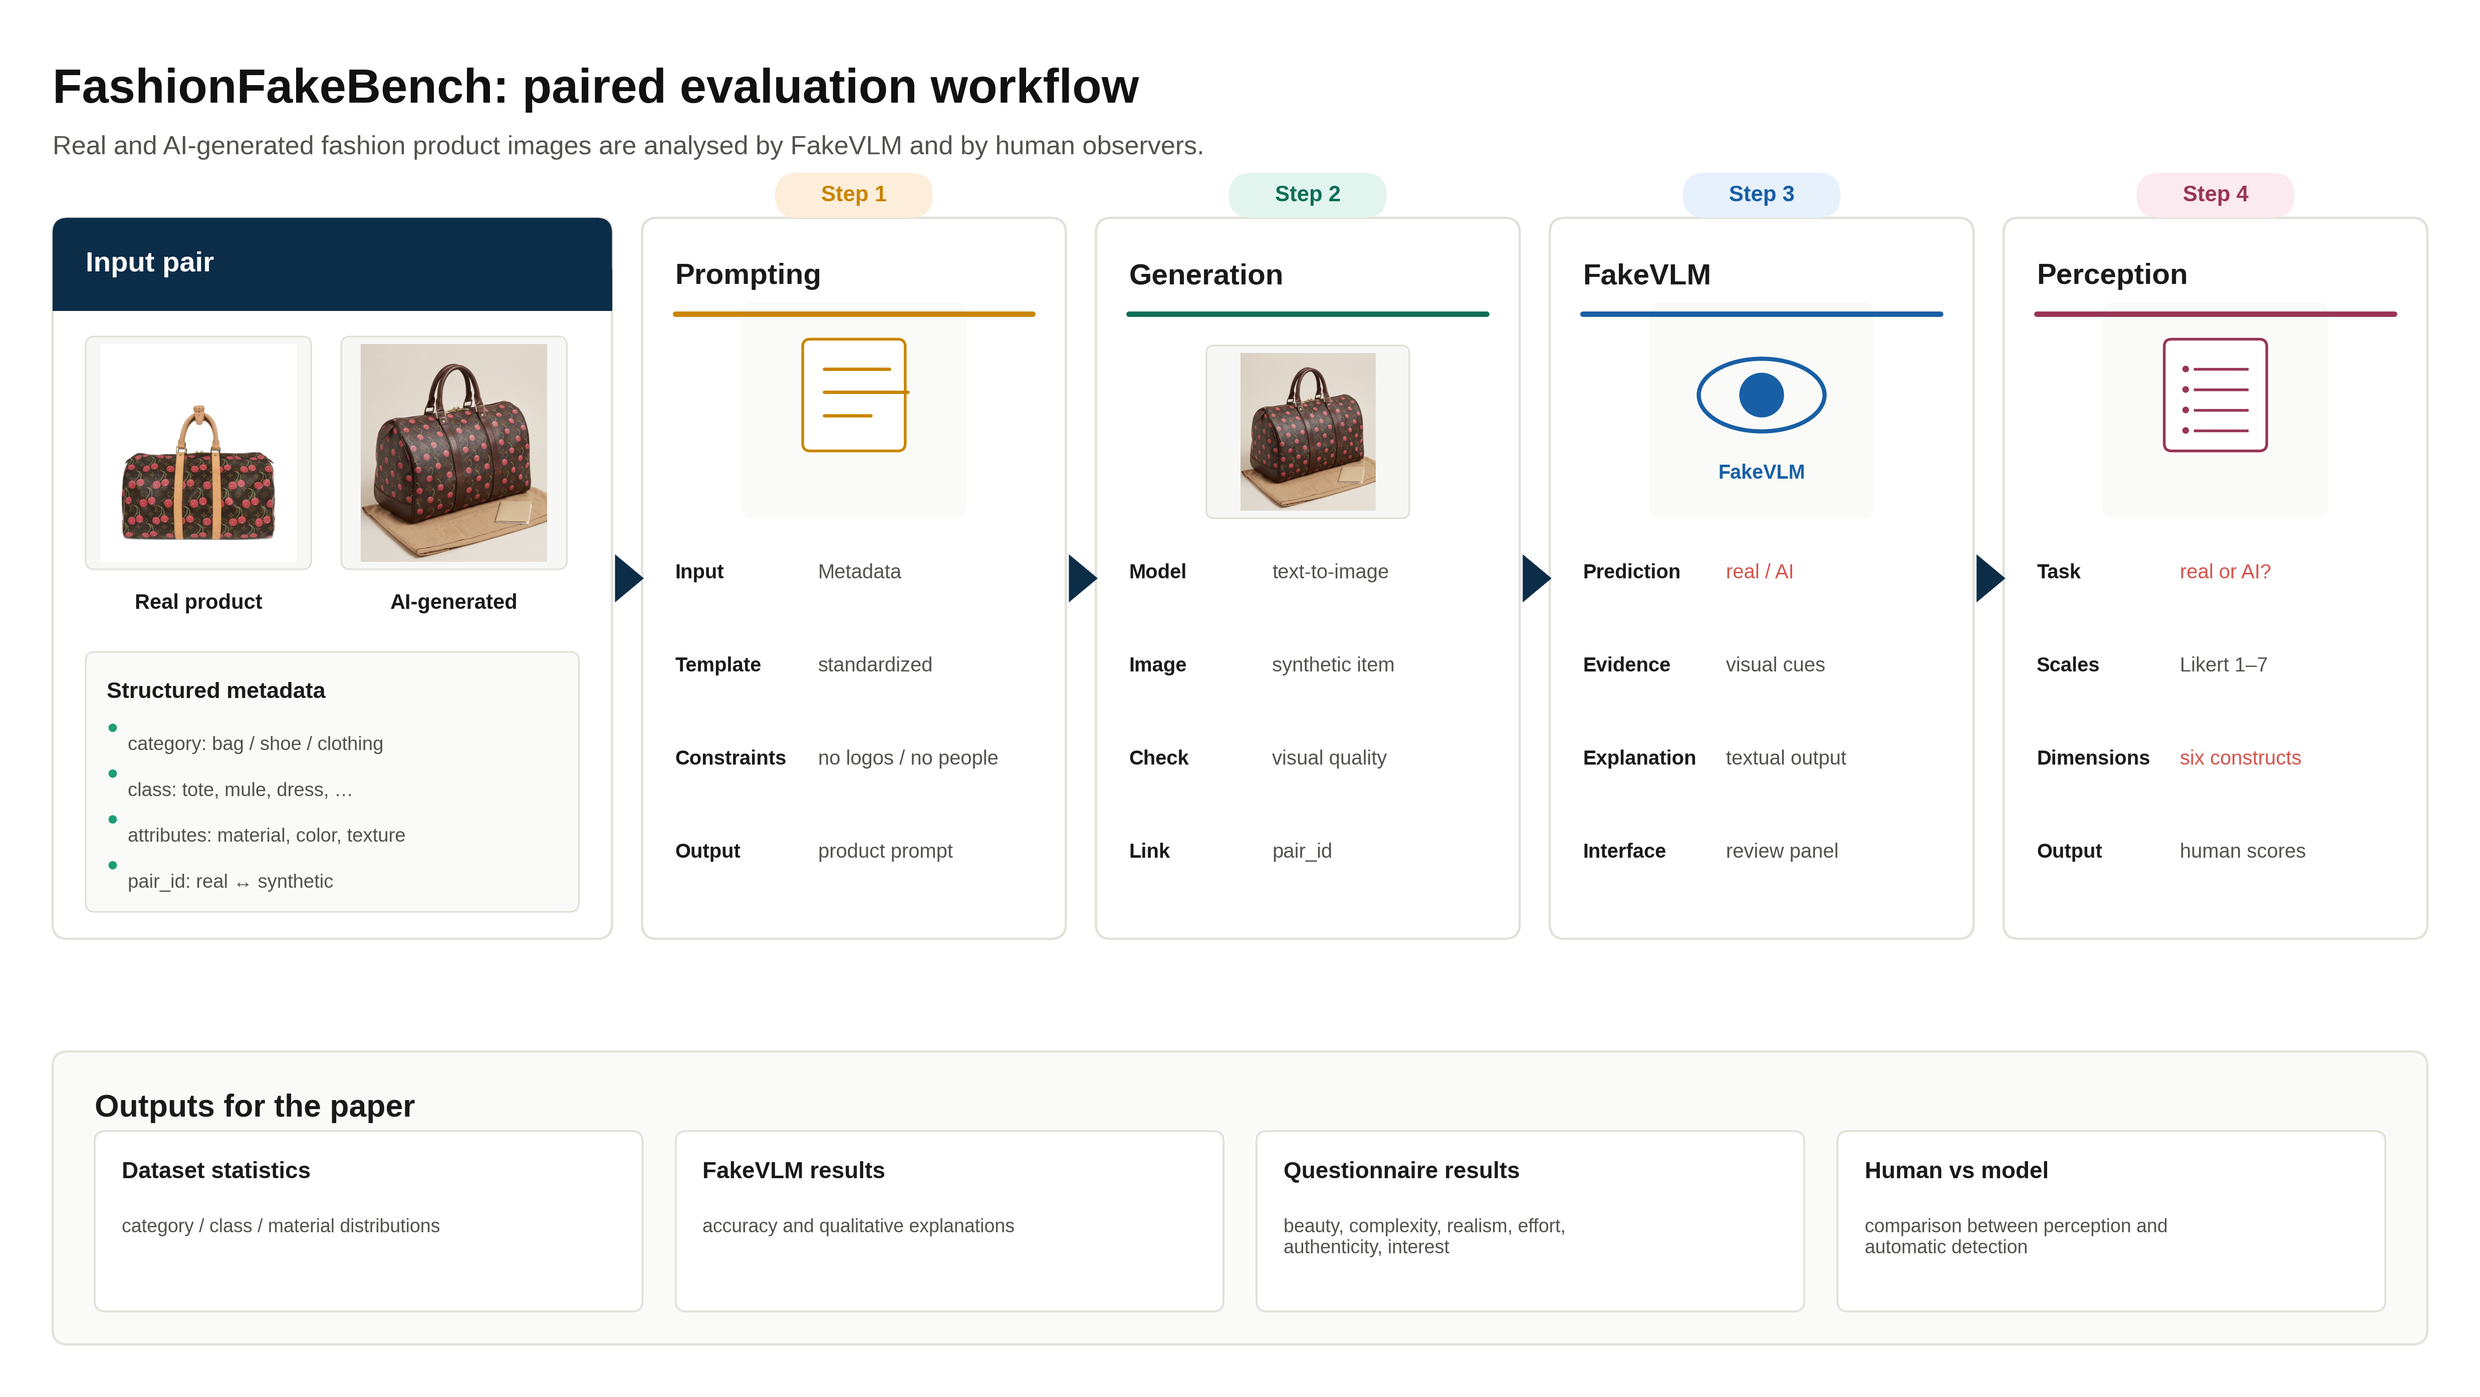
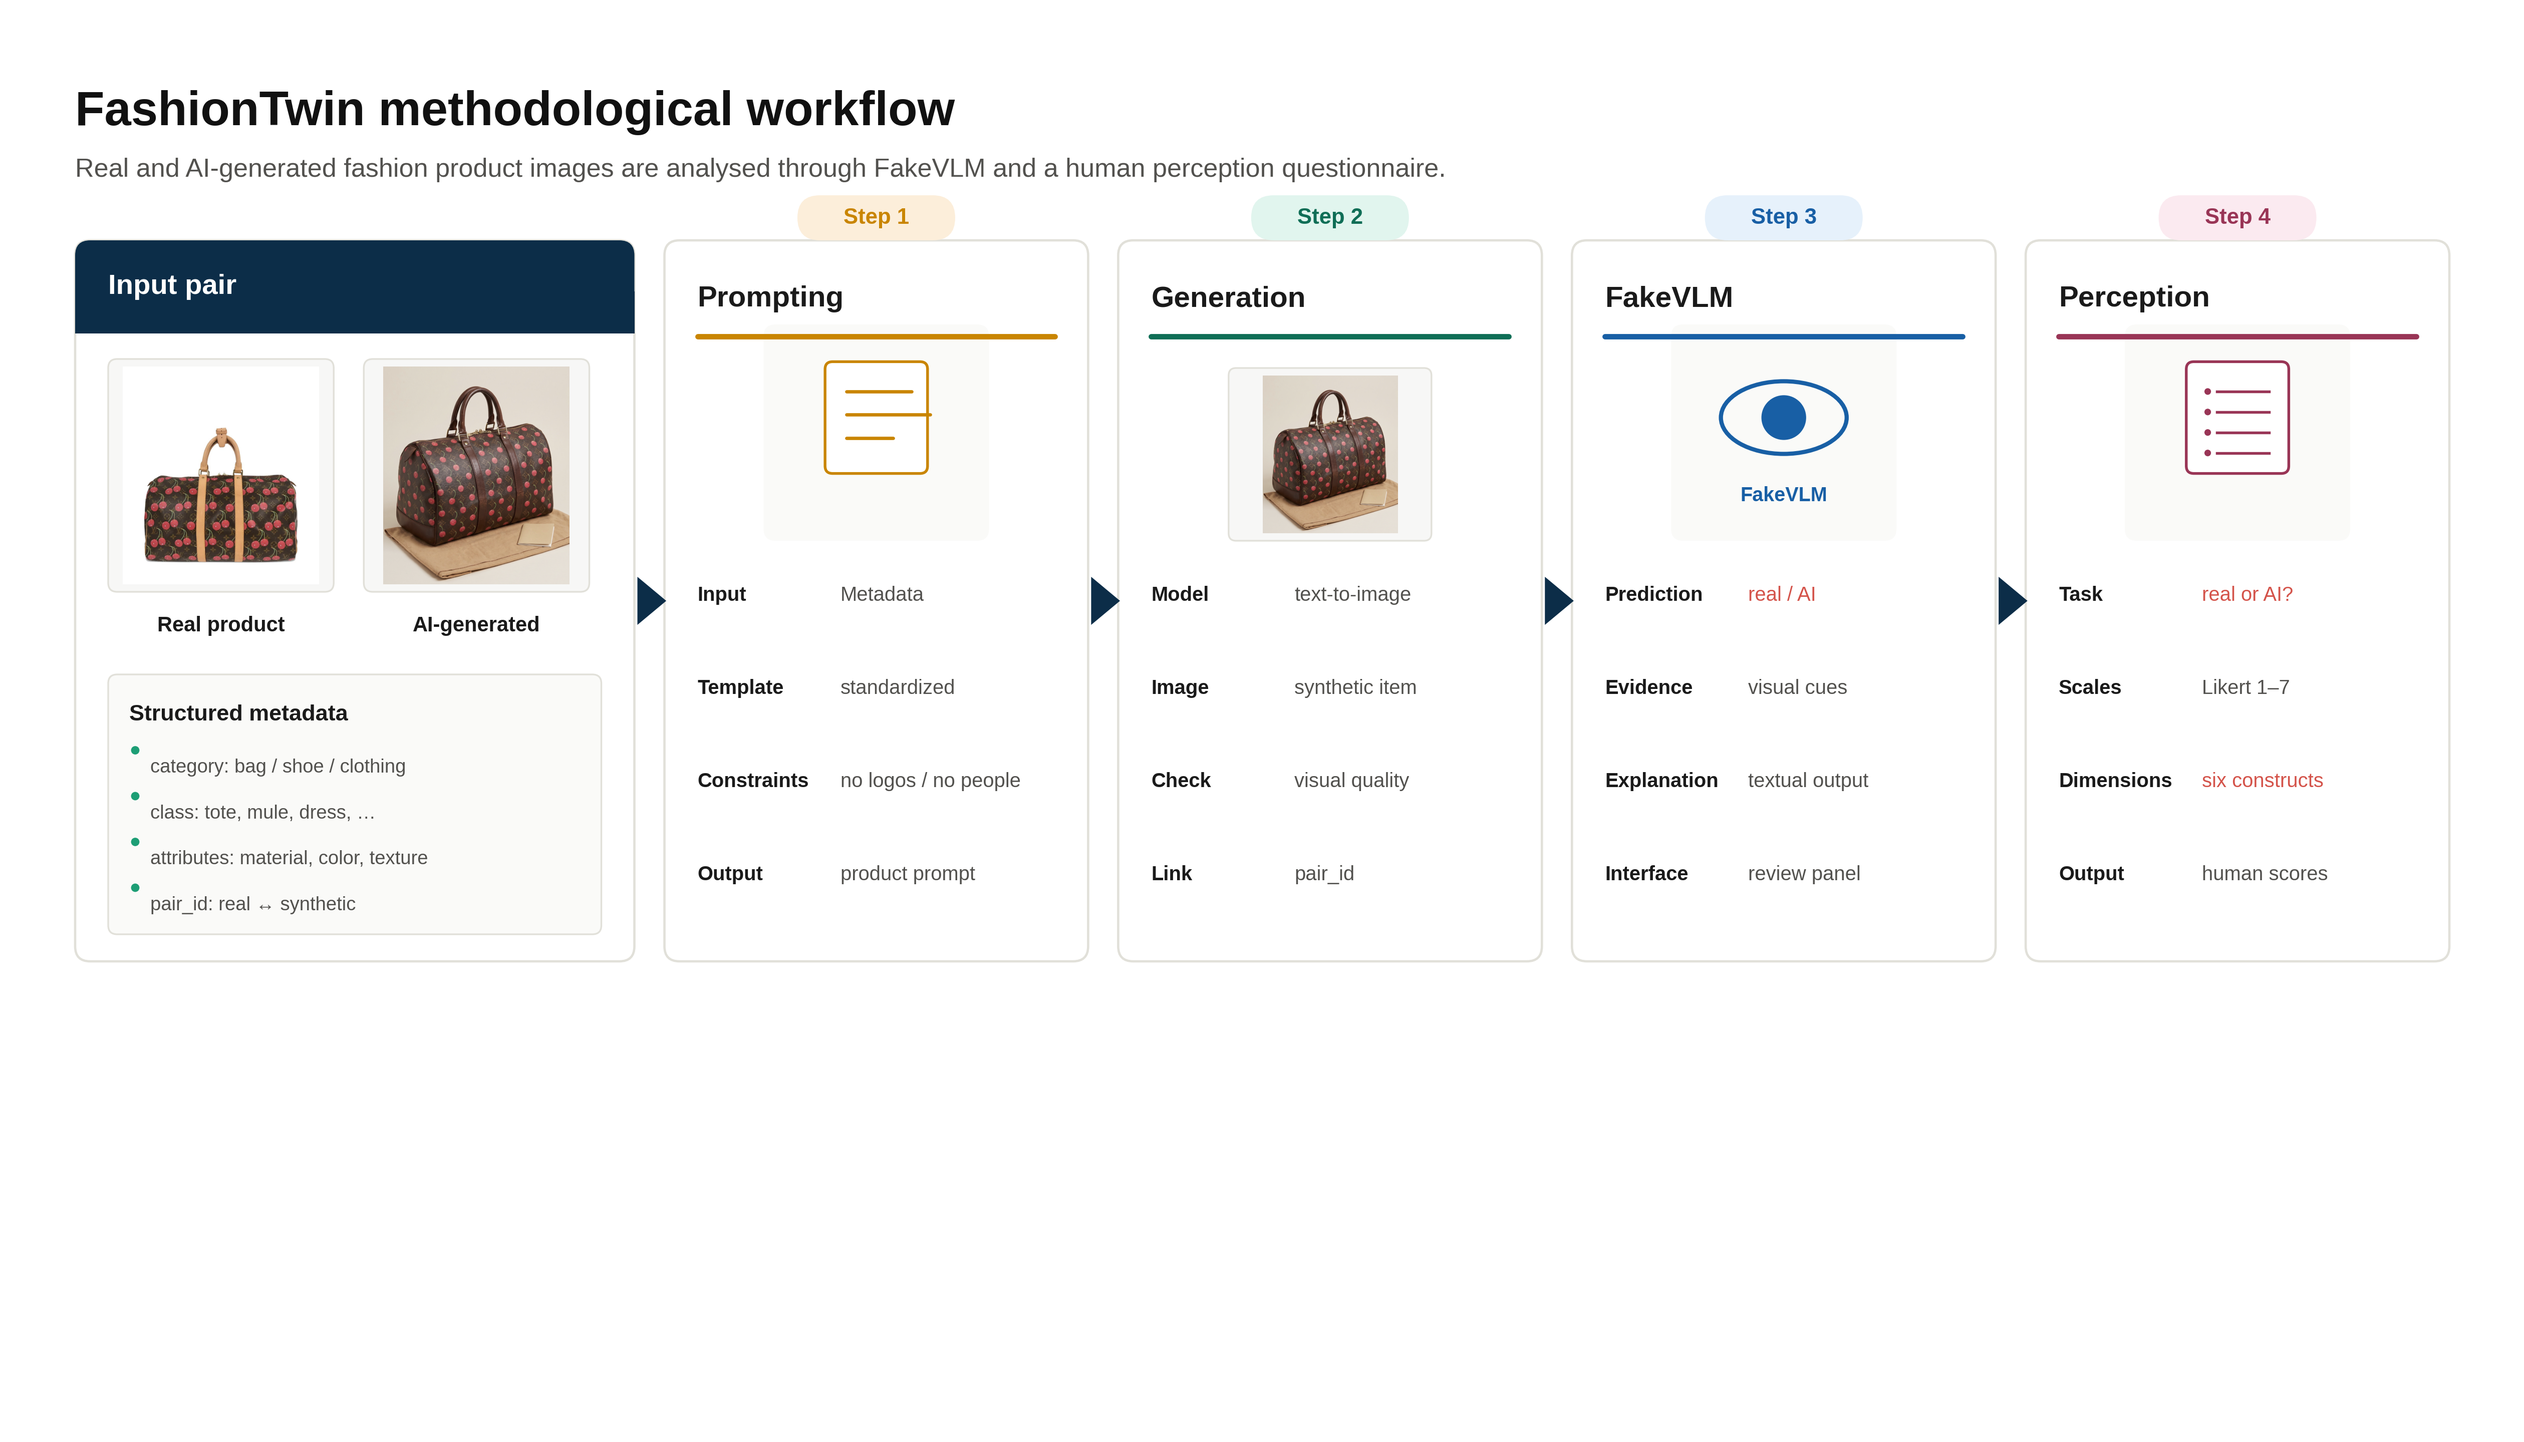
Add files via upload

diff --git a/README.md b/README.md
@@ -4,11 +4,12 @@
 
 ### A Paired Dataset of Real and AI-Generated Fashion Product Images
 
+[![Paper](https://img.shields.io/badge/Paper-coming%20soon-b31b1b.svg)](#citation)
 [![License: CC BY-NC 4.0](https://img.shields.io/badge/License-CC%20BY--NC%204.0-lightgrey.svg)](#license)
 [![Images](https://img.shields.io/badge/Images-3%2C286%20(paired)-blue.svg)](#dataset-statistics)
 [![Classes](https://img.shields.io/badge/Classes-54-blue.svg)](#dataset-statistics)
 
-[Dataset Statistics](#dataset-statistics) • [Download](#download) • [Dataset Structure](#dataset-structure) • [Annotation Protocol](#perceptual-annotation-protocol) • [License](#license)
+[Paper](#citation) • [Dataset Statistics](#dataset-statistics) • [Download](#download) • [Dataset Structure](#dataset-structure) • [Annotation Protocol](#perceptual-annotation-protocol) • [License](#license) • [Citation](#citation)
 
 </div>
 
@@ -71,7 +72,9 @@ Each real image is annotated with the following metadata fields, which are also 
 
 ## Download
 
-> **Note:** replace the placeholders below with your actual hosting links (e.g. Hugging Face Datasets, Zenodo, institutional storage) before publishing.
+**The dataset is currently available upon request.** To request access, please contact **Marina** at `[marina@insert-institution-email.here]`.
+
+> **Note:** replace the placeholders below with your actual hosting links (e.g. Hugging Face Datasets, Zenodo, institutional storage) once the dataset is released publicly.
 
 | Asset | Size | Link |
 |---|---|---|
@@ -172,6 +175,24 @@ The perceptual annotation protocol builds on the multidimensional framework for 
 
 ---
 
+## Citation
+
+📄 **Paper:** link coming soon — will be added here once published.
+
+If you use FashionTwin in your research, please cite it in the meantime as:
+
+```bibtex
+@misc{fashiontwin,
+  title  = {FashionTwin: A Holistic Benchmark for the Perception of AI-Generated Images in Fashion},
+  author = {[Author names to be added]},
+  year   = {2026},
+  note   = {Preprint / paper link to be added upon publication}
+}
+```
+
+---
+
 ## Contact
 
-For questions about the dataset, please open an issue in this repository.
+The dataset is currently available upon request — contact **Marina** at `[marina@insert-institution-email.here]`.
+For other questions, please open an issue in this repository.
